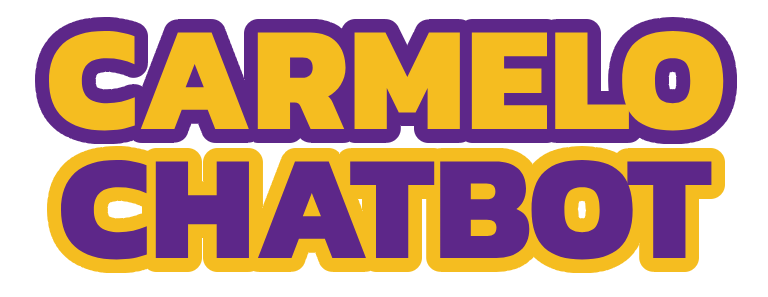
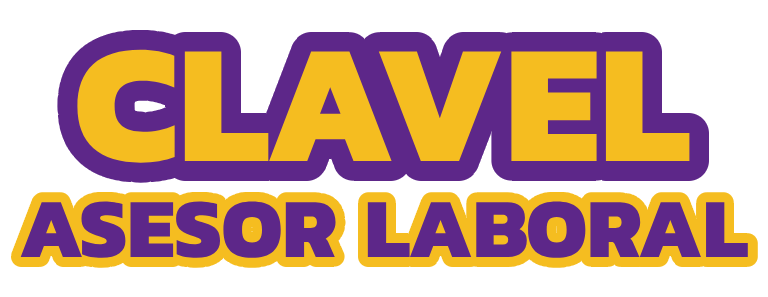
Cambios

diff --git a/static/js/script.js b/static/js/script.js
@@ -29,42 +29,83 @@ btnCerrar.addEventListener("click",()=>{
     e.preventDefault();
     modal.close();
 })
-
-// Funcion para la voz del bot
-function speakBotResponse(text) {
-    // Verifica si el navegador soporta la síntesis de voz
-    if ('speechSynthesis' in window) {
-        // Obtiene las voces disponibles
+//Obtener la voz
+function getSpanishMaleVoice() {
+    return new Promise((resolve) => {
         let voices = window.speechSynthesis.getVoices();
+        
+        if (voices.length !== 0) {
+            let maleVoice = voices.find(voice => 
+                voice.lang.startsWith('es') && 
+                (voice.name.toLowerCase().includes('male') || voice.name.toLowerCase().includes('hombre'))
+            );
 
-        // Filtra para obtener una voz masculina en español (Latinoamérica)
-        let spanishVoice = voices.find(voice => 
-            voice.lang === 'es-MX' || voice.lang === 'es-US' || 
-            (voice.lang.startsWith('es') && voice.name.includes('male'))
-        );
-
-        if (!spanishVoice) {
-            // Si no se encuentra la voz específica, usa una en español por defecto
-            spanishVoice = voices.find(voice => voice.lang.startsWith('es'));
+            resolve(maleVoice || voices.find(voice => voice.lang.startsWith('es')) || null);
+            return;
         }
 
-        // Crea un nuevo objeto SpeechSynthesisUtterance con el texto
-        let utterance = new SpeechSynthesisUtterance(text);
-        utterance.voice = spanishVoice;
-        utterance.lang = 'es-ES'; // Configura el lenguaje a español
-        utterance.rate = 1; // Velocidad normal de la voz
-        utterance.pitch = 1; // Tono de voz normal
+        window.speechSynthesis.onvoiceschanged = () => {
+            voices = window.speechSynthesis.getVoices();
+            let maleVoice = voices.find(voice => 
+                voice.lang.startsWith('es') && 
+                (voice.name.toLowerCase().includes('male') || voice.name.toLowerCase().includes('hombre'))
+            );
 
-        // Habla el texto
-        window.speechSynthesis.speak(utterance);
-    } else {
+            resolve(maleVoice || voices.find(voice => voice.lang.startsWith('es')) || null);
+        };
+    });
+}
+function cleanHTML(text) {
+    // Elimina etiquetas HTML
+    let cleanText = text.replace(/<\/?[^>]+(>|$)/g, " ");
+    return cleanText.trim(); 
+}
+function speakBotResponse(text) {
+    if (!('speechSynthesis' in window)) {
         console.log('La síntesis de voz no es soportada en este navegador.');
+        return;
     }
+
+    let cleanText = cleanHTML(text); // Limpia etiquetas HTML
+    let maxLength = 200; // Evitar cortes por límite del sintetizador
+
+    let parts = cleanText.match(new RegExp('.{1,' + maxLength + '}(\\s|$)', 'g'));
+
+    function speakPart(index) {
+        if (index >= parts.length) return;
+
+        let utterance = new SpeechSynthesisUtterance(parts[index]);
+
+        // Obtener la voz masculina en español
+        let voices = window.speechSynthesis.getVoices();
+        let spanishVoice = voices.find(voice => voice.lang.includes('es') && voice.name.toLowerCase().includes('male'));
+
+        if (!spanishVoice) {
+            spanishVoice = voices.find(voice => voice.lang.includes('es'));
+        }
+
+        utterance.voice = spanishVoice;
+        utterance.lang = 'es-ES';
+        utterance.rate = 0.9; // Reducir la velocidad para que suene más natural
+        utterance.pitch = 0.8; // Hacer la voz un poco más grave
+
+        utterance.onend = () => speakPart(index + 1); // Reproducir la siguiente parte si hay más
+
+        window.speechSynthesis.speak(utterance);
+    }
+
+    speakPart(0); // Comenzar la reproducción
 }
 // Función para desplazar el chat hacia el final
 function scrollToBottom() {
-    var chatContainer = $('#messageFormeight');
-    chatContainer.scrollTop(chatContainer[0].scrollHeight);
+    var chatContainer = $('#messageFormeight'); // Contenedor del chat
+    var lastMessage = chatContainer.find('.msg_cotainer, .msg_cotainer_send').last(); // Último mensaje enviado o recibido
+
+    if (lastMessage.length) {
+        chatContainer.animate({
+            scrollTop: lastMessage.offset().top - chatContainer.offset().top + chatContainer.scrollTop()
+        }, 500); // Desplazamiento suave en 500ms
+    }
 }
 // Función madre
 $(document).ready(function() {

diff --git a/templates/index.html b/templates/index.html
@@ -1,13 +1,13 @@
 <!DOCTYPE html>
 <html>
 <head>
-    <title>Carmelo</title>
+    <title>Clavel Asesor Laboral</title>
     <link href="//maxcdn.bootstrapcdn.com/bootstrap/4.1.1/css/bootstrap.min.css" rel="stylesheet" id="bootstrap-css">
-    <link rel="stylesheet" href="https://stackpath.bootstrapcdn.com/bootstrap/4.1.3/css/bootstrap.min.css" integrity="sha384-MCw98/SFnGE8fJT3GXwEOngsV7Zt27NXFoaoApmYm81iuXoPkFOJwJ8ERdknLPMO" crossorigin="anonymous">
-    <link rel="stylesheet" href="https://use.fontawesome.com/releases/v5.5.0/css/all.css" integrity="sha384-B4dIYHKNBt8Bc12p+WXckhzcICo0wtJAoU8YZTY5qE0Id1GSseTk6S+L3BlXeVIU" crossorigin="anonymous">
+    <link rel="stylesheet" href="https://stackpath.bootstrapcdn.com/bootstrap/4.1.3/css/bootstrap.min.css">
+    <link rel="stylesheet" href="https://use.fontawesome.com/releases/v5.5.0/css/all.css">
     <script src="https://ajax.googleapis.com/ajax/libs/jquery/3.3.1/jquery.min.js"></script>
     <link rel="stylesheet" href="/static/css/style.css"/>
-    <link rel="icon" href="/static/images/logo.ico">
+    <link rel="icon" href="/static/images/logoClavel.ico">
 </head>
 <body>
     <br>
@@ -27,8 +27,8 @@
                                     <img src="/static/images/carmelo.gif" class="rounded-circle user_img">
                                 </div>
                                 <div class="user_info">
-                                    <span>Carmelo</span>
-                                    <p>Preguntame sobre Derecho del Trabajo o Seguridad Social</p>
+                                    <span>Clavel</span>
+                                    <p>Preguntame sobre Derecho del Trabajo</p>
                                 </div>
                             </div>
                         </div>
@@ -104,23 +104,33 @@
     <form id="answerForm" name="answerForm">
         <dialog id="modal-nqa" class="modal-nqa">
          <div class="ventana-modal">
+            <h2>¿Su consulta jurídica no fue respondida?</h2>
+            <p>Llene el formulario para que su duda pueda ser respondida mediante su correo electrónico</p>
             <label for="user_noanswerd">¿Cuál es su nombre?</label>      
-            <input type="text" name="user_noanswerd" id="user_noanswerd">
+            <input type="text" name="user_noanswerd" id="user_noanswerd" required>
             <label for="email">¿Cuál es su correo electrónico?</label>
-            <input type="email" name="email" id="email">
+            <input type="email" name="email" id="email" required>
             <label for="quest_noanswerd">¿Podría formular la pregunta que no fue respondida por el Chatbot?</label>      
-            <input type="text" name="quest_noanswerd" id="quest_noanswerd">
+            <input type="text" name="quest_noanswerd" id="quest_noanswerd" required>
             <div class="botones">
-            <button id="enviar_qna">
-                Enviar
-            </button>
-            <button id="cerrar-modal">
-                Cerrar
-            </button>
-        </div>
+                <button id="enviar_qna" type="submit">
+                    Enviar
+                </button>
+                <button id="cerrar-modal" type="button">
+                    Cerrar
+                </button>
+            </div>
          </div>
         </dialog> 
     </form>
+    <!-- Modal de confirmación -->
+    <dialog id="modal-confirmacion" class="modal-confirmacion">
+        <div class="ventana-modal">
+            <h2>¡Consulta enviada con éxito!</h2>
+            <p>Su pregunta será revisada y recibirá una respuesta en su correo electrónico.</p>
+            <button id="cerrar-confirmacion">Aceptar</button>
+        </div>
+    </dialog>
     <script src="/static/js/script.js"></script>
 </body>
 </html>

diff --git a/static/css/style.css b/static/css/style.css
@@ -421,8 +421,8 @@ button[disabled] .button-82-front {
     flex-direction: column;
     align-items: center;
     padding: 20px;
-    border: 10px solid #46297b;
-    border-radius: 10%;
+    border: 5px solid #46297b;
+    border-radius: 5%;
     background-color: #ffd93e;
     color: #46297b;
     max-width: 400px;
@@ -580,20 +580,23 @@ textarea {
     border: 1px solid #ddd;
     border-radius: 4px;
 }
-.botones .button {
-    background-color: #863ba7;
-    color: white;
-    border: 50%;
-    text-decoration: none;
-    padding: 10px 15px;
-    border-radius: 4px;
-    cursor: pointer;
-    margin: 5px;
-}
-.botones {
+
+.ventana-modal .botones {
 	display: flex;
 	flex-direction: row;
 }
+
+.ventana-modal .botones .button {
+  background-color: #863ba7;
+  color: white;
+  border: 50%;
+  text-decoration: none;
+  padding: 10px 15px;
+  border-radius: 4px;
+  cursor: pointer;
+  margin: 5px;
+}
+
 #cerrar-modal {
     background-color: #f44336;
 }
